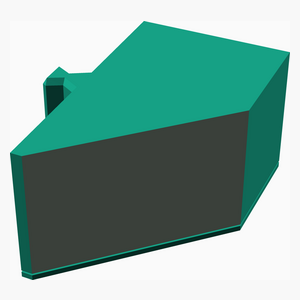
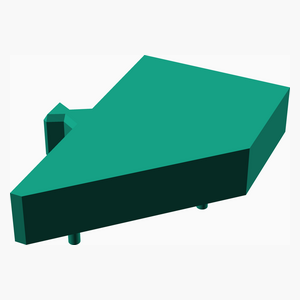
Update height

diff --git a/README.md b/README.md
@@ -22,9 +22,7 @@
 |  |  |  | | **3D printed parts** |
 | &nbsp;&nbsp;.&nbsp; | &nbsp;&nbsp;1&nbsp; | &nbsp;&nbsp;.&nbsp; |  &nbsp;&nbsp;1&nbsp; | &nbsp;&nbsp;fastener_left.stl |
 | &nbsp;&nbsp;1&nbsp; | &nbsp;&nbsp;.&nbsp; | &nbsp;&nbsp;.&nbsp; |  &nbsp;&nbsp;1&nbsp; | &nbsp;&nbsp;fastener_right.stl |
-| &nbsp;&nbsp;.&nbsp; | &nbsp;&nbsp;1&nbsp; | &nbsp;&nbsp;.&nbsp; |  &nbsp;&nbsp;1&nbsp; | &nbsp;&nbsp;underside_left.stl |
-| &nbsp;&nbsp;1&nbsp; | &nbsp;&nbsp;.&nbsp; | &nbsp;&nbsp;.&nbsp; |  &nbsp;&nbsp;1&nbsp; | &nbsp;&nbsp;underside_right.stl |
-| &nbsp;&nbsp;2&nbsp; | &nbsp;&nbsp;2&nbsp; | &nbsp;&nbsp;.&nbsp; | &nbsp;&nbsp;4&nbsp; | &nbsp;&nbsp;Total 3D printed parts count |
+| &nbsp;&nbsp;1&nbsp; | &nbsp;&nbsp;1&nbsp; | &nbsp;&nbsp;.&nbsp; | &nbsp;&nbsp;2&nbsp; | &nbsp;&nbsp;Total 3D printed parts count |
 
 <span></span>
 [Top](#TOP)
@@ -34,9 +32,9 @@
 ## Right Block Assembly
 ### 3D Printed parts
 
-| 1 x fastener_right.stl | 1 x underside_right.stl |
-|---|---|
-| ![fastener_right.stl](stls/fastener_right.png) | ![underside_right.stl](stls/underside_right.png) 
+| 1 x fastener_right.stl |
+|---|
+| ![fastener_right.stl](stls/fastener_right.png) 
 
 
 
@@ -53,9 +51,9 @@
 ## Left Block Assembly
 ### 3D Printed parts
 
-| 1 x fastener_left.stl | 1 x underside_left.stl |
-|---|---|
-| ![fastener_left.stl](stls/fastener_left.png) | ![underside_left.stl](stls/underside_left.png) 
+| 1 x fastener_left.stl |
+|---|
+| ![fastener_left.stl](stls/fastener_left.png) 
 
 
 
